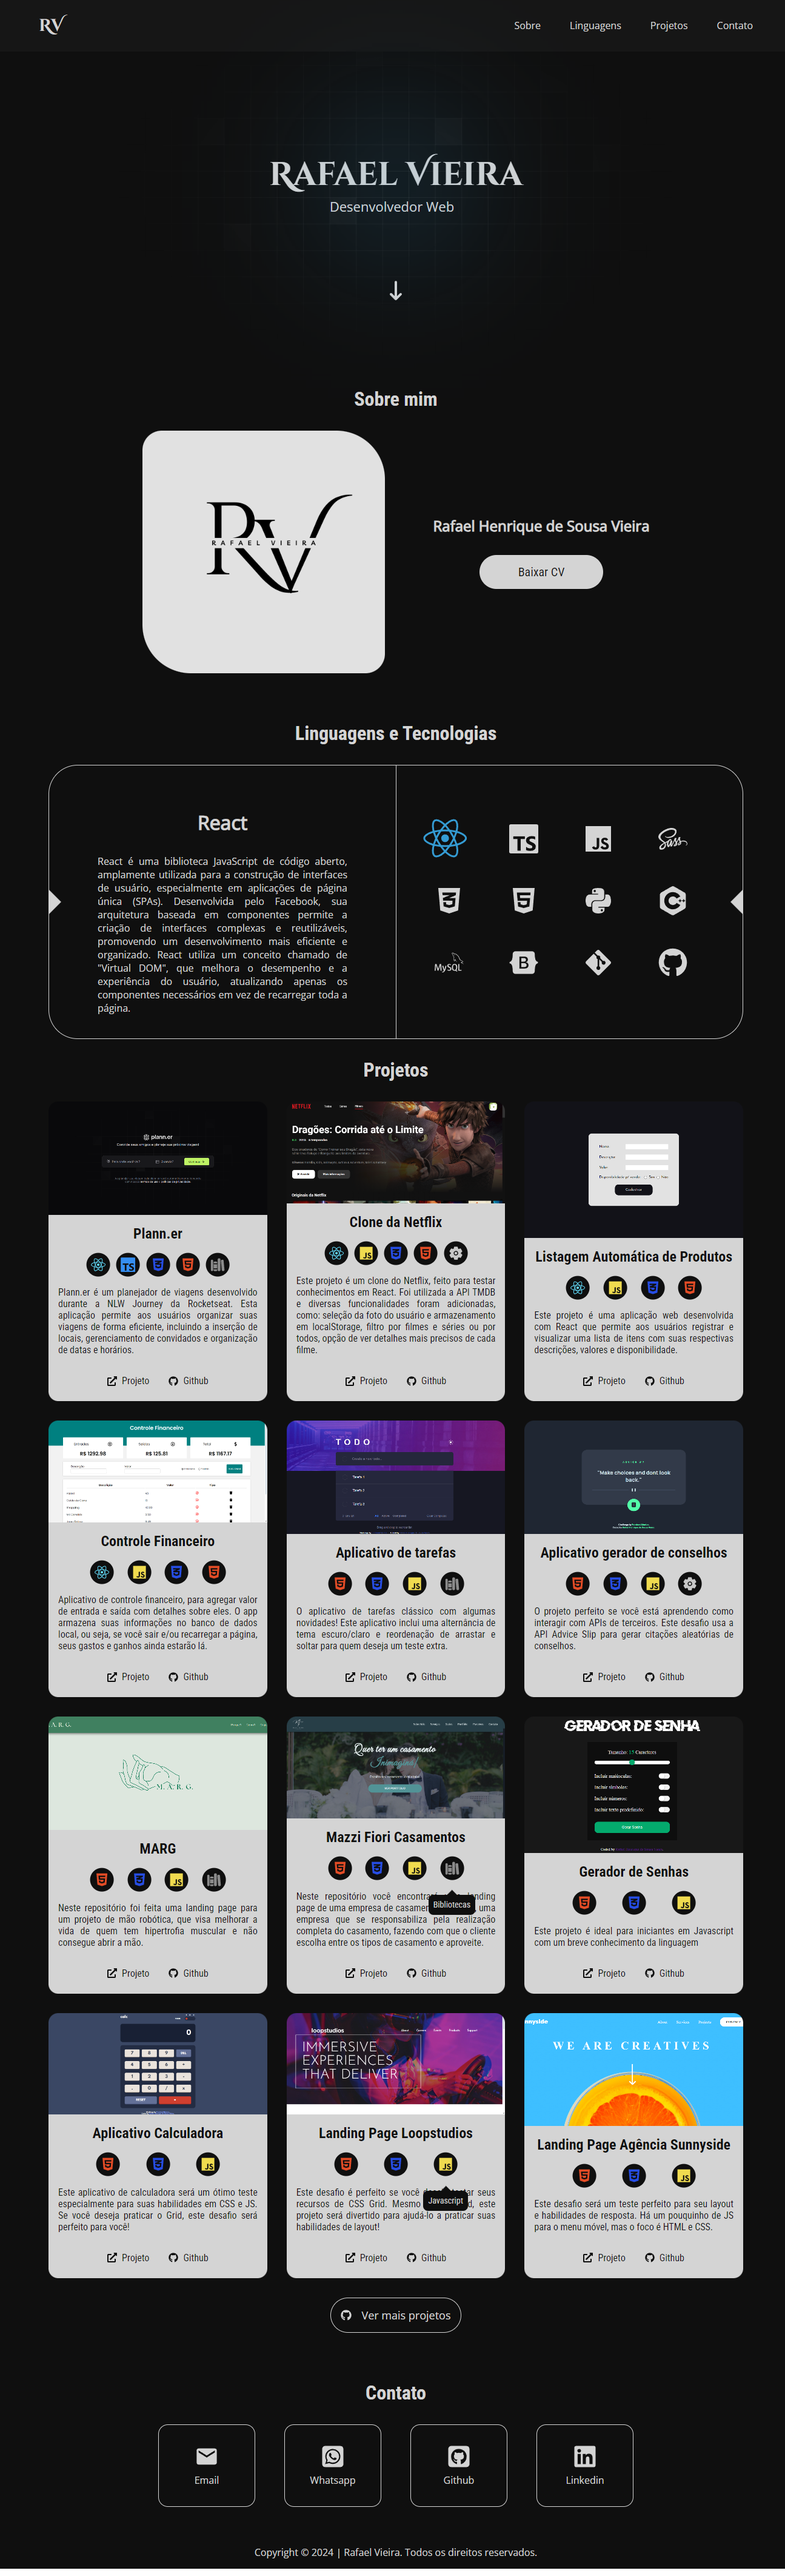
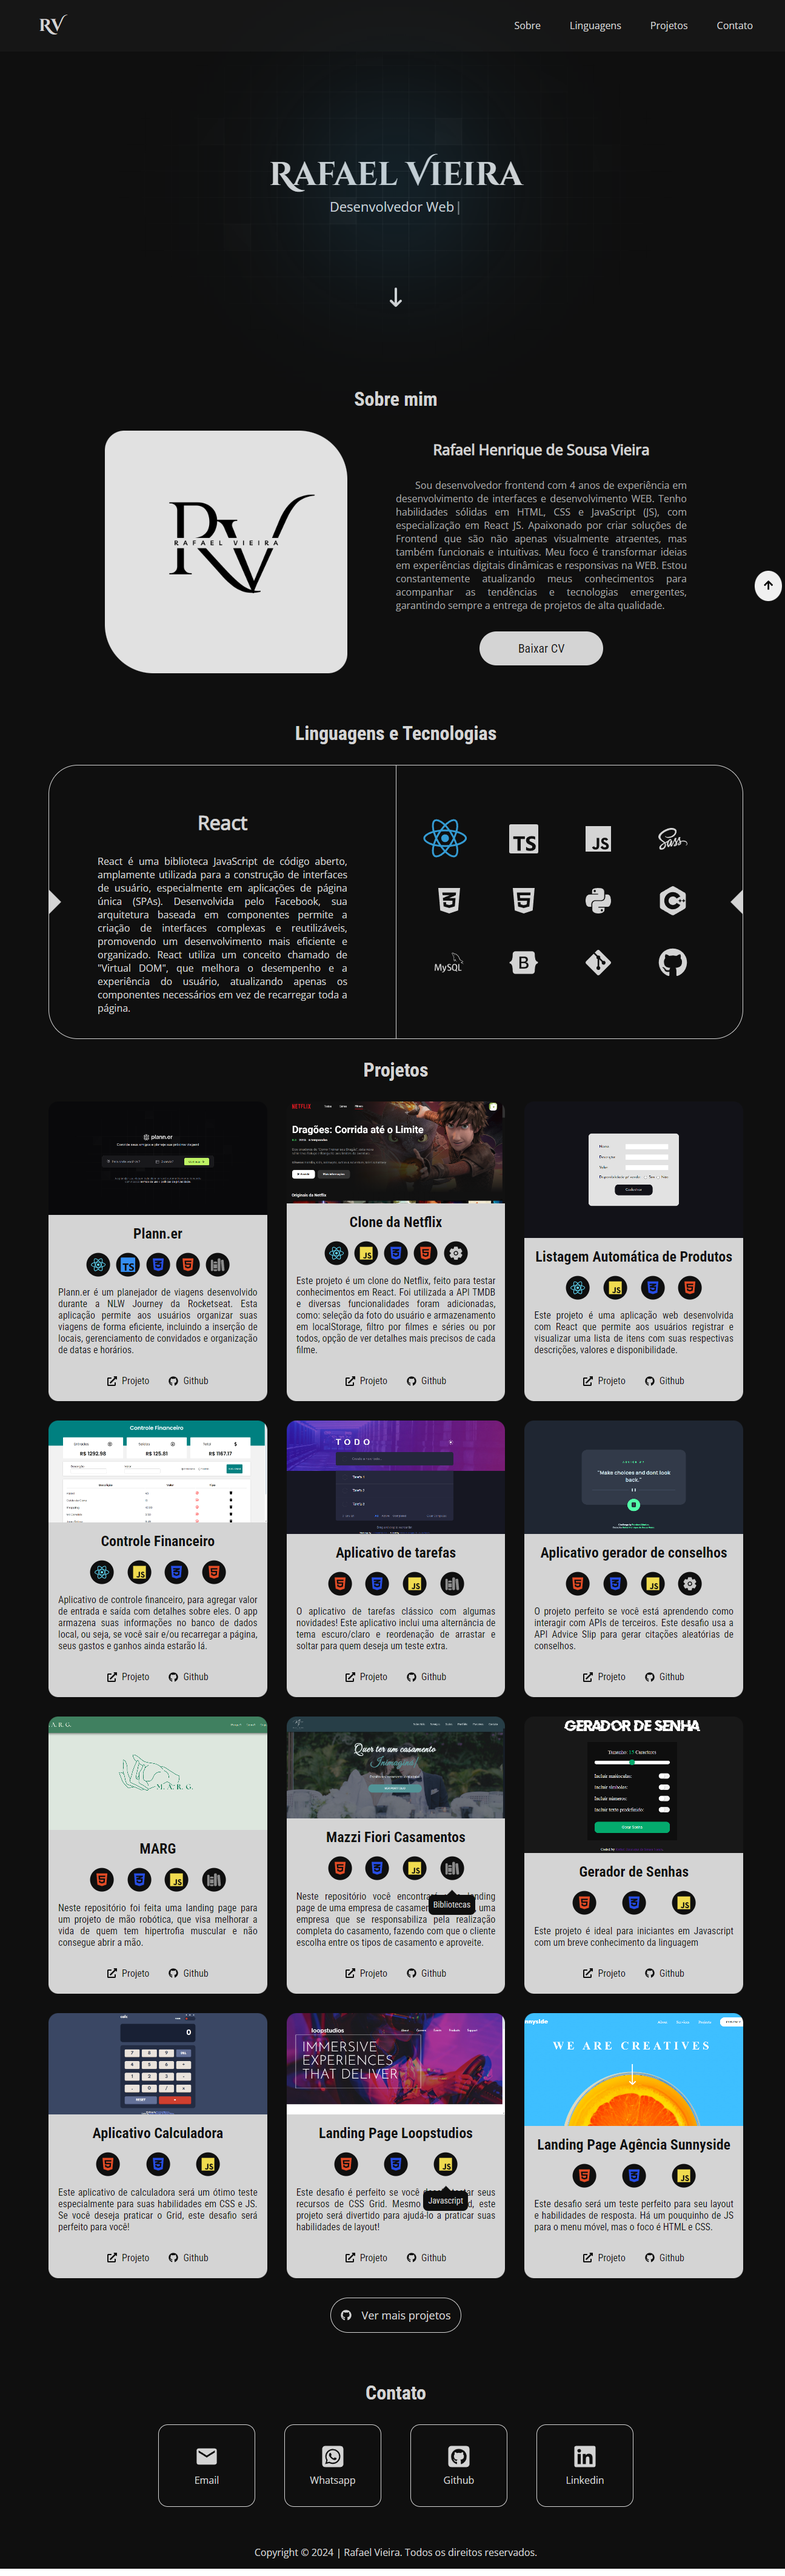
docs: updating readme.md

Changed region(s): [[0.2162, 0.1554, 0.8649, 0.2797], [0.1236, 0.1554, 0.2162, 0.2797], [0.9575, 0.2176, 1.0, 0.2486]]

diff --git a/src/components/AboutContainer/About.tsx b/src/components/AboutContainer/About.tsx
@@ -13,7 +13,7 @@ export const AboutContainer = () => {
 				<aside>
 					<h1>Rafael Henrique de Sousa Vieira</h1>
 
-					{/* <article>
+					<article>
 						Sou desenvolvedor frontend com 4 anos de
 						experiência em desenvolvimento de interfaces e
 						desenvolvimento WEB. Tenho habilidades sólidas em
@@ -27,7 +27,7 @@ export const AboutContainer = () => {
 						acompanhar as tendências e tecnologias emergentes,
 						garantindo sempre a entrega de projetos de alta
 						qualidade.
-					</article> */}
+					</article>
 
 					<a
 						className='btn-cv'
